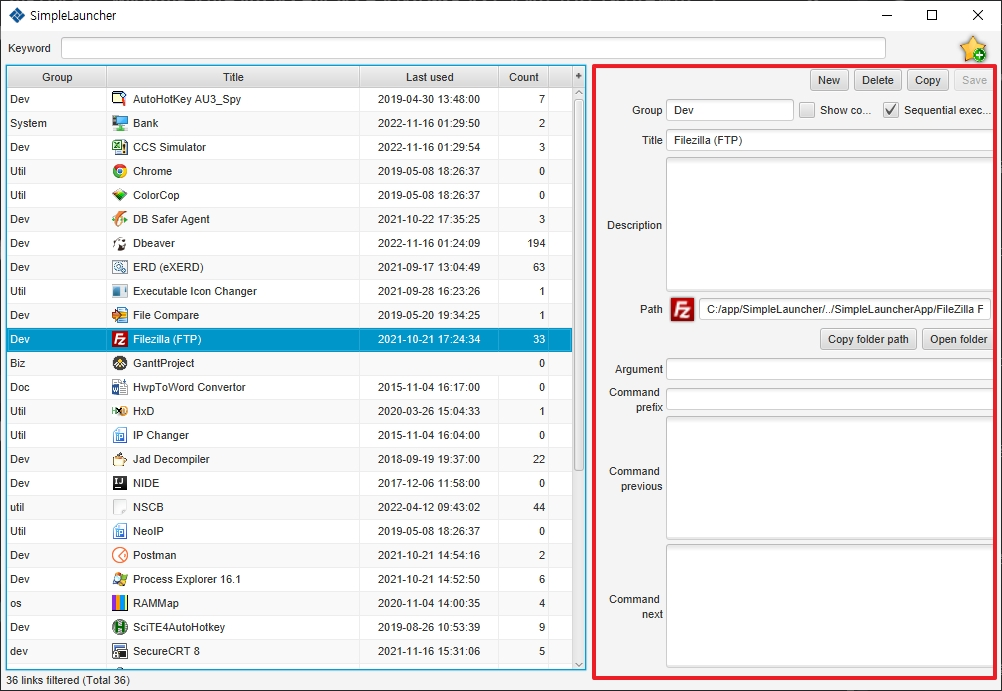
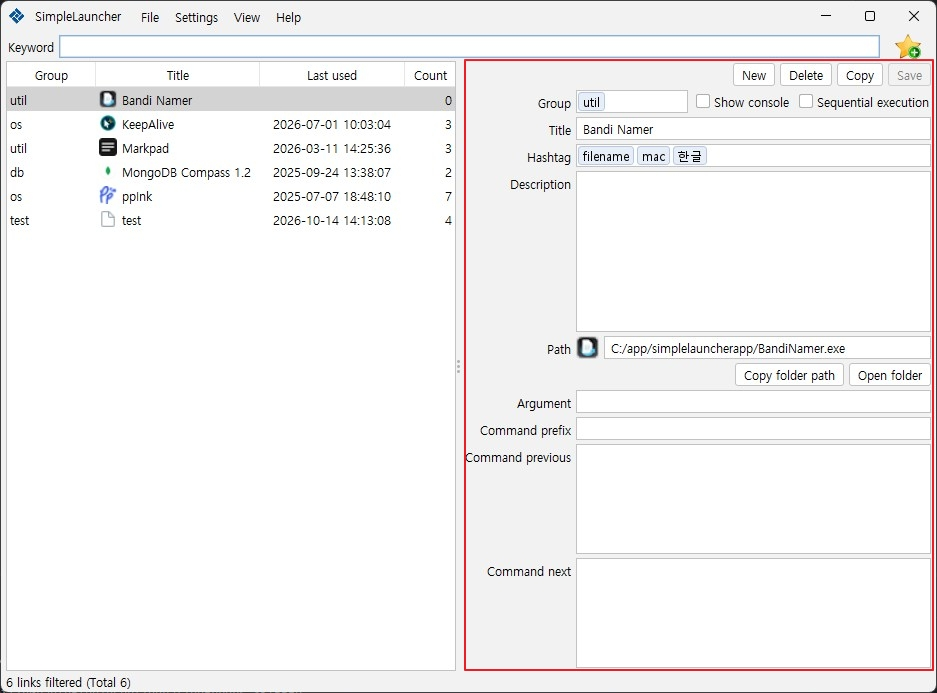
update docs for the new search, localization and packaging
Refreshes the screenshots, links them relatively in the README and adds
a sample link export.

Changed region(s): [[0.0, 0.0, 1.0, 1.0]]

diff --git a/CLAUDE.md b/CLAUDE.md
@@ -6,7 +6,7 @@ This file provides guidance to Claude Code (claude.ai/code) when working with co
 
 **Simple Launcher** is a Swing desktop application for organizing and launching applications with advanced search capabilities. It features a database-backed link catalog with Boolean search operators, keyboard shortcuts, drag-and-drop support, and embedded terminal execution.
 
-**Tech Stack**: Kotlin 2.2.20, Swing with FlatLaf (IntelliJ theme), kotlinx-coroutines (`Dispatchers.Swing`), Exposed ORM with KSP code generation, H2 database, JediTerm (Swing) terminal emulator with pty4j. Java toolchain 25.
+**Tech Stack**: Kotlin 2.4.21, Swing with FlatLaf (IntelliJ theme), kotlinx-coroutines (`Dispatchers.Swing`), Exposed ORM with KSP code generation, H2 database, JediTerm (Swing) terminal emulator with pty4j. Java toolchain 25.
 
 The UI is plain Swing built in code (no form files), with the `basica-swing` library supplying the `SwingApp`/`SwingView` base classes, dialogs, controls and coroutine helpers. JavaFX, TornadoFX and `basicafx-kt` were removed — do not reintroduce them.
 
@@ -23,7 +23,7 @@ The UI is plain Swing built in code (no form files), with the `basica-swing` lib
 ./gradlew test
 
 # Run a specific test class
-./gradlew test --tests "io.github.nayasis.simplelauncher.service.KeywordParserTest"
+./gradlew test --tests "io.github.nayasis.simplelauncher.service.SearchTokenTest"
 
 # Manual demos (assert nothing)
 ./gradlew runTerminalDemo
@@ -32,13 +32,12 @@ The UI is plain Swing built in code (no form files), with the `basica-swing` lib
 # Create fat JAR
 ./gradlew shadowJar
 
-# Bundle a JVM with the app (jpackage)
-./gradlew createNativeExe
+# Bundle a trimmed JVM with the app (jpackage)
+./gradlew makeExecutable
 # Output: build/dist/simplelauncher/
 
-# Compile ahead of time to a real native binary (GraalVM native-image)
-native-build.bat
-# Output: build/native/nativeCompile/simplelauncher.exe
+# Package and install to D:/app/SimpleLauncher (or C:/app/SimpleLauncher)
+./gradlew deploy
 ```
 
 ## Architecture
@@ -59,9 +58,7 @@ service/      # Business logic
 ├── LinkService.kt       # CRUD operations for links (suspend functions), file pickers
 ├── LinkExecutor.kt      # Command execution engine (coroutines)
 ├── LinkCommand.kt       # Command template parameter binding
-├── TextMatcher.kt       # Search with Boolean operators
-├── KeywordParser.kt     # Converts search to postfix notation (RPN)
-├── SearchToken.kt       # Token-based search terms
+├── SearchToken.kt       # Search tokens and their Boolean evaluation
 ├── ShortcutSettings.kt  # Shortcut actions and user bindings (KeyStroke)
 ├── Config.kt            # Persisted app state
 └── LauncherChildWindows.kt, ProgressQueuePopOver.kt
@@ -113,18 +110,16 @@ Coroutines are the concurrency model; do not add raw threads or `SwingWorker`.
 - The search filter in `Main` is a cancellable job: a new search cancels the previous one, and the evaluation runs on `Dispatchers.Default` with `ensureActive()` checks.
 
 ### 3. Boolean Search Engine
-Search syntax supports Boolean operators with precedence:
-- **AND**: space (highest precedence after NOT)
-- **OR**: comma
-- **NOT**: dash prefix
-- **Grouping**: parentheses
+A search is a list of `SearchToken`s (chips in `SearchTokenField`): terms, `AND`, `OR`, `NOT` and parentheses.
+There is no text syntax: typed text without chips is searched as one term, and Enter turns it into that chip.
 
-Example: `foo bar, -baz (qux quux)` → "foo AND bar OR NOT baz OR (qux AND quux)"
+- Precedence: parentheses > `NOT` (prefix) > `AND` > `OR`
+- Adjacent terms, and a `NOT` after a term, are joined with an implicit `AND`
+- Shift+Enter on a term joins it with `OR` (`insertTermWithOr`); Ctrl+Enter always adds a plain term
+- A malformed expression falls back to matching any of its terms
+- Terms match by substring or by fuzzy subsequence (`matchesSearchTerm`)
 
-Implementation:
-- `KeywordParser.kt`: Converts infix to postfix notation
-- `TextMatcher.kt`: Evaluates postfix expression against keyword sets
-- Uses LRU cache (20 entries) for parsed queries
+`matchesSearchTokens()` in `SearchToken.kt` evaluates the tokens with a shunting-yard pass.
 
 ### 4. Relative Path Support
 Links store both absolute and relative paths with fallback resolution:
@@ -202,12 +197,12 @@ Key methods:
 `Terminal` is a `JFrame` holding a JediTerm `JediTermWidget`:
 - `suspend fun run(command)` starts the command through pty4j (`PtyProcessTtyConnector`, UTF-8) and resumes when it exits
 - `BlackTerminalTheme` sets colors and the font. The font comes from `StyleContext` so that it is a composite font with glyph fallback; a plain `Font("Consolas")` renders Hangul as boxes.
-- JediTerm is pinned to 3.72 from the JetBrains repository: 3.73+ needs kotlin-stdlib 2.4.
+- JediTerm 3.72 comes from the JetBrains repository (the Swing build is published only there).
 
 ## Testing
 
 ### Test Structure
-- **Unit tests**: `KeywordParserTest`, `TextMatcherTest`, `SearchTokenTest`, `ShortcutSettingsTest`, `SearchSubmitTrackerTest`, `MainShortcutRoutingTest`, `MainTableContextMenuTest`, `SearchTokenFieldTest`, `ShortcutEditorTest`, `LauncherChildWindowsTest`, `TerminalStagePropertyTest`
+- **Unit tests**: `SearchTokenTest`, `ShortcutSettingsTest`, `SearchSubmitTrackerTest`, `MainShortcutRoutingTest`, `MainTableContextMenuTest`, `SearchTokenFieldTest`, `ShortcutEditorTest`, `LauncherChildWindowsTest`, `TerminalStagePropertyTest`
 - **Integration tests**: `LinksTest` (database), `LinkServiceSuggestionTest`, `LinkExecutorTest` (disabled)
 - **Framework**: JUnit 5 + Kotest assertions
 
@@ -221,7 +216,7 @@ Not everything under `src/test` is an automated test. `TerminalDemo` and `Shortc
 ./gradlew test
 
 # Specific test class
-./gradlew test --tests "KeywordParserTest"
+./gradlew test --tests "SearchTokenTest"
 
 # With debug output
 ./gradlew test --info
@@ -229,11 +224,11 @@ Not everything under `src/test` is an automated test. `TerminalDemo` and `Shortc
 
 ## JVM arguments
 
-`build.gradle.kts:appJvmArgs` holds `--enable-native-access=ALL-UNNAMED` (JNA for pty4j, FlatLaf native libraries). It is wired into `application.applicationDefaultJvmArgs`, every `JavaExec` task, and passed to `createNativeExe` as `--java-options`.
+`build.gradle.kts:appJvmArgs` holds `--enable-native-access=ALL-UNNAMED` (JNA for pty4j, FlatLaf native libraries). It is wired into `application.applicationDefaultJvmArgs`, every `JavaExec` task, and passed to `makeExecutable` as `--java-options`.
 
 ### jlink module list
 
-`requiredJdkModules` in `build.gradle.kts` drives `createRuntimeImage`. Removing a module still passes `./gradlew run` (the full JDK is present) but can break the packaged app at runtime, so always verify module changes with `./gradlew createNativeExe` and by running the produced executable, not just `./gradlew run`.
+`requiredJdkModules` in `build.gradle.kts` is passed to jpackage as `--add-modules`. Removing a module still passes `./gradlew run` (the full JDK is present) but can break the packaged app at runtime, so always verify module changes with `./gradlew makeExecutable` and by running the produced executable, not just `./gradlew run`.
 
 ## Distribution
 
@@ -245,53 +240,21 @@ Not everything under `src/test` is an automated test. `TerminalDemo` and `Shortc
 
 The version comes from the branch name: `release/x.y.z` yields `x.y.z`, anything else yields `0.1.0-SNAPSHOT`.
 
-### GraalVM native-image (true AOT binary)
-
+### Native Executable (jpackage — bundles a JVM)
 ```bash
-native-build.bat
-# Output: build/native/nativeCompile/simplelauncher.exe
+./gradlew makeExecutable
+# Output: build/dist/simplelauncher/
 ```
 
-Not re-verified since the move to Swing.
+One `jpackage` call over the `installDist` jars; jpackage runs jlink itself with `requiredJdkModules`. The package type is `app-image` unless `SIMPLELAUNCHER_PACKAGE_TYPE` says otherwise (the release workflow passes `deb` / `dmg`).
 
-Do not call `./gradlew nativeCompile` directly — native-image drives `cl.exe`, and
-without the MSVC environment it fails with `fatal error C1034: stdio.h`.
-`native-build.bat` runs `vcvars64.bat` first, then Gradle.
+`./gradlew deploy` kills a running `simplelauncher.exe` and replaces `app/`, `runtime/` and the exe in the install directory, leaving `conf/` and `db/` alone.
 
-Requirements:
-- A GraalVM-based JDK 25 (Liberica NIK 25) at `%NATIVE_JAVA_HOME%`.
-- Visual Studio 2022 Build Tools, C++ workload plus Windows SDK.
-- A local copy of the shared reachability metadata (the plugin cannot fetch it
-  from GitHub releases here); see the comment in `build.gradle.kts`.
-
-Things that cost time to rediscover:
-
-| Trap | Why |
-|---|---|
-| No classpath to scan at runtime | Anything built on `Classes.findResources` glob patterns silently finds nothing. That is why message bundles are listed explicitly in `Simplelauncher.kt` and the `@Inject` services are registered in `beforeInitialization()` instead of relying on `SwingApp`'s package scan. Adding a new `@Inject` service means registering it there too. |
-| `.bat` files must stay CRLF | An LF-only batch file makes `cmd.exe` produce no output at all. Enforced by `.gitattributes`. |
-
-### Native Executable (jpackage — bundles a JVM)
-Two-stage process:
-1. **jlink**: Creates custom runtime with only required modules
-   ```bash
-   ./gradlew createRuntimeImage
-   # Output: build/runtime-image/
-   ```
-
-2. **jpackage**: Creates platform-specific installer
-   ```bash
-   ./gradlew createNativeExe
-   # Output: build/dist/simplelauncher/
-   ```
-
-Platform-specific notes:
-- **Windows**: Attempts to create .exe installer if WiX Toolset is installed (light.exe), otherwise creates app-image
-- **Linux/Mac**: Creates app-image
+`@Inject` services are registered in `beforeInitialization()`, a leftover from the GraalVM native-image build (no classpath to scan there). Adding a new `@Inject` service means registering it there too.
 
 ## Dependencies of Note
 
-- **basica-kt**: Custom utility library (path, string, reflection helpers)
+- **basica-kt**: Custom utility library (path, string, reflection, `Messages` helpers). Like basica-swing it is developed in parallel (`C:\project_nayasis\basica-kt`) and consumed from mavenLocal as `0.1.0-SNAPSHOT`, declared `strictly` so it also replaces the release version basica-swing depends on. `mavenLocal()` is limited to the `io.github.nayasis` group.
 - **basica-swing**: Custom Swing library. Supplies `SwingApp`/`SwingView`, `SimpleDiContainer`, `Dialog`, `ProgressDialog`, `DefaultPreloader`, `FilterSortList`/`ListTableModel`, `WindowProperty`, token controls, `AutoCompletion`, `PopOver`, `HistorySet`, `KeyStroke` helpers and the coroutine helpers. Developed in parallel at `C:\project_nayasis\basica-swing` and consumed from mavenLocal as `0.1.0-SNAPSHOT`, so run `./gradlew publishToMavenLocal` there after changing it.
 - **FlatLaf**: look and feel (IntelliJ theme)
 - **kotlinx-coroutines-swing**: `Dispatchers.Swing`
@@ -317,15 +280,23 @@ Platform-specific notes:
 Views are not DI beans and must not be annotated: `SwingApp.find()` instantiates them through their no-arg constructor and caches them.
 
 ### Modifying Search Logic
-- **Parser**: `KeywordParser.kt:toPostfix()` (infix to RPN)
-- **Matcher**: `TextMatcher.kt:match()` (evaluates postfix)
-- **Indexing**: `Link.kt:keywords` property (space-delimited)
+- **Evaluation**: `SearchToken.kt:matchesSearchTokens()`
+- **Turning input into tokens**: `createCommandOrTermSearchToken()`, `createOperatorSearchToken()`, `insertTermWithOr()` in `SearchToken.kt`; key and mouse handling in `SearchTokenField.kt`
+- **What is searched**: `Main.setSearchFilter()` (title and hashtags for the keyword, groups for the group field)
+
+### Localization
+Labels come from `src/main/resources/message/localization.<lang>[_<COUNTRY>].prop` (`zh_CN` is language `zh`, country `CN`), read with `"key".message()`.
+
+- Every bundle must have the same keys. `language.name` is the bundle's own name, shown in 설정 > 언어 (Settings > Language).
+- The language menu lists whatever bundles exist (`Languages.available`); `Languages.ORDER` puts the most spoken first, unlisted ones go last.
+- The choice is saved as a language tag in `Config.language` and applied at startup in `Simplelauncher.afterInitialization()` through `Languages.apply()`, ahead of `simplelauncher.locale` in `application.yml` and the system locale. `Languages.apply()` sets both `Locale.setDefault()` and `Messages.defaultLocale` (Messages keeps the default it saw on first use).
+- A switch in the menu applies at once: build texts with `localize { text = "key".message() }` (basica-swing `Localization`) so `Localization.refresh()` reads them again. Texts put together from several parts (table headers, tooltips with shortcuts, the status line) are redone in the `Localization.onRefresh` block in `Main.init`. Dialogs and popups built on demand need nothing.
 
 ### Adding Keyboard Shortcuts
 Shortcuts are data, not hardcoded key handlers. They are user-rebindable through the shortcut settings dialog and stored as `KeyStroke`s; the config keeps them as text like `Ctrl+Shift+N` (strings saved by the JavaFX version still parse).
 
 1. Add an entry to the `ShortcutAction` enum in `ShortcutSettings.kt` with its message key, `ShortcutGroup` and default key stroke
-2. Add the message key to `src/main/resources/message/`
+2. Add the message key to every bundle in `src/main/resources/message/`
 3. Handle it in `handleMainShortcutEvent()` in `Main.kt` and add the matching lambda to `MainShortcutHandlers`
 4. For table context-menu entries, add the action to `TABLE_ITEM_SHORTCUT_ACTIONS` in `Main.kt`
 
@@ -342,6 +313,7 @@ When adding icon support for new file types, modify `Link.readIcon()`.
 
 ## Recent Changes
 
+- Packaging is a single jpackage task; the GraalVM native-image build was removed
 - Moved from JavaFX to Swing + FlatLaf IntelliJ, from `basicafx-kt` to `basica-swing`, and from JediTermFx to JediTerm Swing. Concurrency now uses coroutines. Generic controls moved into basica-swing. Window state saved by the JavaFX version (`stageMain`/`stageTerminal`) is not migrated.
 - Table rendering caches icons; search filtering runs off the EDT
 - Migrated from Komapper to Exposed ORM (commit: 4543400)

diff --git a/README.md b/README.md
@@ -5,7 +5,7 @@
 **Simple Launcher** helps you launch applications quickly and find them easily.
 You can configure each launcher item with a **relative path** or a **custom command**.
 
-![screenshot](https://github.com/nayasis/simpleLauncher/blob/master/doc/screenshot.jpg?raw=true)
+![screenshot](./doc/screenshot.jpg?raw=true)
 
 ## Requirements
 
@@ -36,7 +36,7 @@ gradlew run
 - Create a native executable (`.exe` on Windows) with jpackage:
 
 ```shell
-gradlew clean createNativeExe
+gradlew clean makeExecutable
 ```
 
 - The executable is generated in `build/dist/simplelauncher/`.
@@ -46,7 +46,7 @@ gradlew clean createNativeExe
 - Create a native executable (`.exe` on Windows) with jpackage:
 
 ```shell
-gradlew createNativeExe
+gradlew makeExecutable
 ```
 
 - The executable is generated in `build/dist/simplelauncher/`.
@@ -101,26 +101,22 @@ Only works when the Link Editor is open.
 | Ctrl + **O**         | Open item folder         |
 | Ctrl + **I**         | Change item icon         |
 
-![link editor](https://github.com/nayasis/simpleLauncher/blob/master/doc/link-editor.jpg?raw=true)
+![link editor](./doc/link-editor.jpg?raw=true)
 
 ### Keyword History
 
-When the keyword field is focused:
+When the keyword field is focused, Enter history mode by pressing **Alt + Down**.
 
-![keyword focused](https://github.com/nayasis/simpleLauncher/blob/master/doc/keyword-focused.jpg?raw=true)
-
-Enter history mode by pressing **Alt + Down**.
-
-![history mode](https://github.com/nayasis/simpleLauncher/blob/master/doc/keyword-historymode.jpg?raw=true)
+![history mode](./doc/keyword-autocomplete.jpg?raw=true)
 
 #### Keyword History Functions
 
-| Shortcut      | Description |
-|---------------|-------------|
-| Alt + **Left**  | Move to the previously executed link |
-| Alt + **Right** | Move to the next executed link |
-| Any key         | Filter executed links ![autocompleted links](https://github.com/nayasis/simpleLauncher/blob/master/doc/keyword-autocomplete.jpg?raw=true) |
-| Esc             | Exit history mode |
+| Shortcut        | Description                                                            |
+|-----------------|------------------------------------------------------------------------|
+| Alt + **Left**  | Move to the previous search word                                       |
+| Alt + **Right** | Move to the next search word                                           |
+| Any key         | Filter executed links ![autocompleted links](./doc/keyword-autocomplete.jpg?raw=true) |
+| Esc             | Exit history mode                                                      |
 
 ## Binding Parameters
 
@@ -146,8 +142,3 @@ When you drag and drop a file (or directory) onto an item, these placeholders ar
 ```shell
 ape2wav.exe "${path}" "${dir}\\${name}.wav"
 ```
-
-## Contact
-
-- Issues: https://github.com/nayasis/SimpleLauncher/issues
-- Email: [nayasis@gmail.com](mailto:nayasis@gmail.com)

diff --git a/AGENTS.md b/AGENTS.md
@@ -10,9 +10,8 @@
 ## Build, Test, and Development Commands
 - `./gradlew run` – start the Swing app from source and attach to the dev toolchain.
 - `./gradlew build` – compile Kotlin, run tests, and assemble the distributable JAR under `build/libs/`.
-- `./gradlew runtime` – produce the self-contained runtime image in `build/image/` for packaging.
-- `./gradlew createNativeExe` – create a native executable using jpackage with custom runtime image (smaller size). Outputs to `build/dist/simplelauncher/`.
-- `./gradlew createRuntimeImage` – create a custom runtime image with jlink (required by `createNativeExe`). Outputs to `build/runtime-image/`.
+- `./gradlew makeExecutable` – package the app with a trimmed JVM using jpackage. Outputs to `build/dist/simplelauncher/`.
+- `./gradlew deploy` – package and install to `D:/app/SimpleLauncher` (or `C:/app/SimpleLauncher`).
 - `./gradlew test` – execute the JUnit 5 / Kotest suite; run before sharing changes. Use `./gradlew clean` when caches misbehave.
 
 ## Coding Style & Naming Conventions
